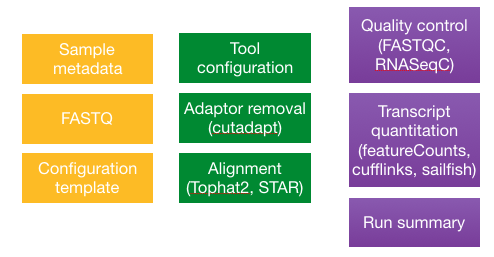
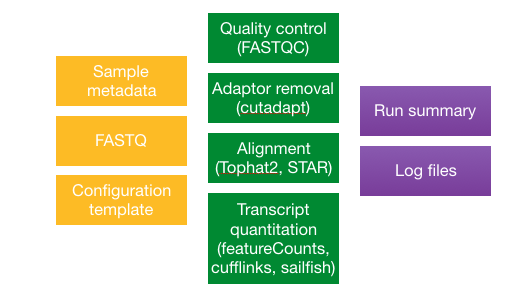
adding bcbio workflow

diff --git a/sessionIV/lessons/03_bcbio_nextgen.md b/sessionIV/lessons/03_bcbio_nextgen.md
@@ -108,7 +108,7 @@ details:
     algorithm:
       aligner: star
       quality_format: standard
-      trim_reads: read_through
+      trim_reads: False
       adapters: [truseq, polya]
       strandedness: firststrand 
 upload:
@@ -138,29 +138,18 @@ mov10_project/
 
 ## `bcbio`: Workflow
 
-Before we actually run the analysis, let's talk a bit about the tools that will be run and some of the `algorithm` details we specified for these tools. 
+Before we actually run the analysis, let's talk a bit about the tools that will be run and some of the `algorithm` details we specified for these tools. The RNA-seq pipeline includes steps for quality control, adapter trimming, alignment, variant calling, transcriptome reconstruction and post-alignment quantitation at the level of the gene and isoform.
 
 ![bcbio-workflow](../img/bcbio-workflow.png)
  
-The RNA-seq pipeline includes steps for quality control, adapter trimming, alignment, variant calling, transcriptome reconstruction and post-alignment quantitation at the level of the gene and isoform. 
+For quality control, the FASTQC tool is used and we selected `standard` to indicate the stadard fastqsanger quality encoding. Trimming is not required unless you are using the Tophat2 aligner. Adapter trimming is very slow, and aligners that soft clip the ends of reads such as STAR and hisat2, or algorithms using pseudoalignments like Sailfish handle contaminant sequences at the ends properly. This makes trimming unnecessary, and since we have chosen `star` as our aligner we have also set `trim_reads: False`. *Tophat2 does not perform soft clipping so if that is the aligner that is chosen, trimming must still be done.*
 
-For quality control, the FASTQC tool is used
- 
- 
- 
-```
-    algorithm:
-      aligner: star
-      quality_format: standard
-      trim_reads: read_through
-      adapters: [truseq, polya]
-      strandedness: firststrand 
-```
-
+Counting of reads is done using featureCounts and does not need to be specfied in the config file. Also, Sailfish, which is an extremely fast alignment-free method of quantitation, is run for all experiments.
 
 
 ## `bcbio`: Output
 
+![bcbio-ouput](../img/bcbio-output.png)
 
 There are three logging files in the log directory within your working folder:
 
